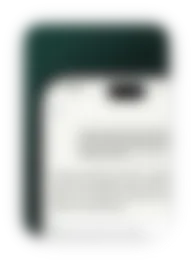
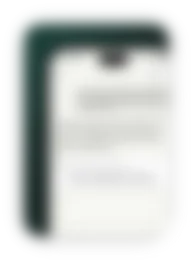
Tool Use thumbnail: pulled back to show the Slack tool call, teal around the corner
Claude-Session: https://claude.ai/code/session_01KWunyGjQtk3sCnGrUXUHPS

Changed region(s): [[0.1554, 0.1538, 0.9326, 0.9231], [0.4663, 0.5231, 0.8705, 0.6154]]

diff --git a/src/content/work/research.md b/src/content/work/research.md
@@ -15,7 +15,7 @@ cover:
     mp4: images/work/research-8.mp4
     poster: images/work/research-8.jpg
     start: 29
-    rest: [0.34, 0.16, 2.1]   # thumbnail: at 0:29, the phone's top-left corner and island close up, teal above, its right side off the cover
+    rest: [0.38, 0.3, 1.6]   # thumbnail: at 0:29, the phone's top-left corner with teal around it and the Slack tool call; its right side runs off the cover
     # [seconds, x, y, zoom]: held shots on each step (typing the request, the
     # reply, each tool call, the summary), with the whole phone at the start
     # and end so the loop is seamless.
